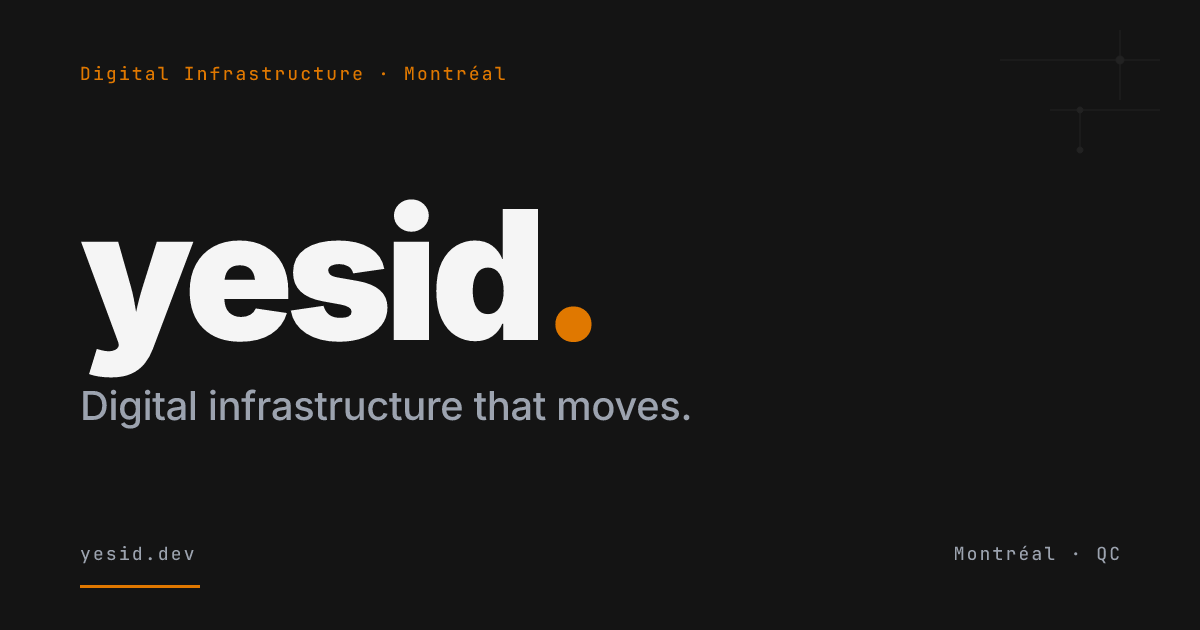
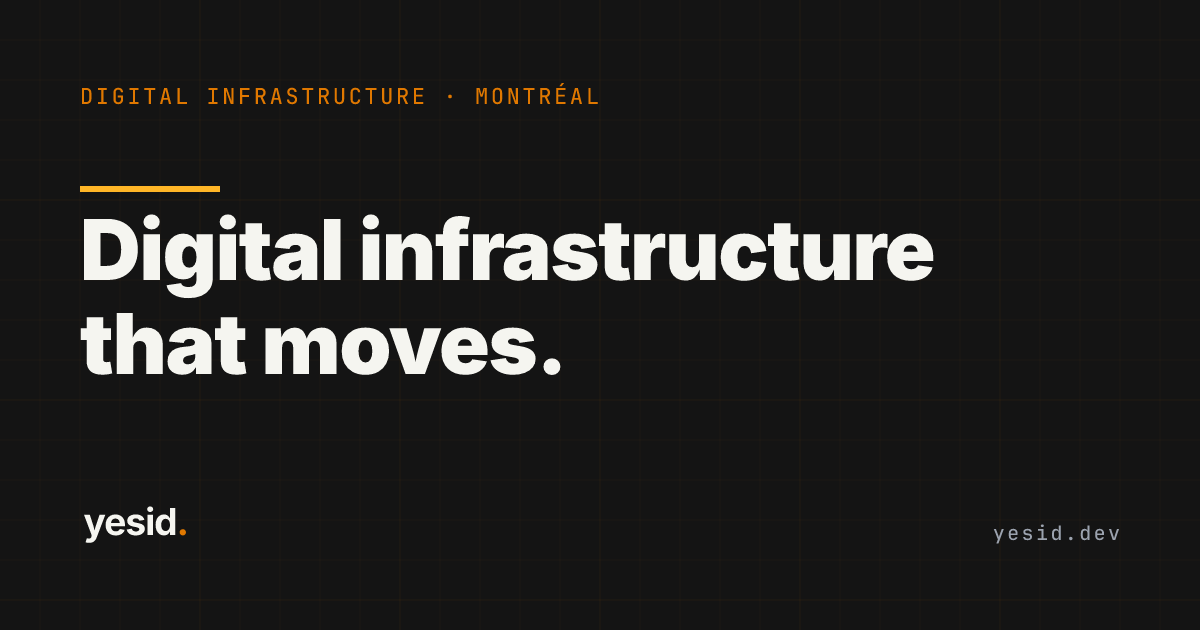
feat(og): wire the approved share-card set through the CMS pipeline (homework #5)
- generate-og-cards.ts mints the full set: 4 service cards, /services,
  /contact (yellow signage), /about (headshot), /projects (CASE STUDIES
  eyebrow + blueprint art), home defaults EN+FR, site.en/site.fr standalone
  share assets; all 1200x630, 36-79KB, wordmark paths read from the
  canonical brand SVG
- home cards replace static/og/default.{en,fr}.png (EN default at yesid.dev,
  FR at /fr, per operator)
- route cards pipelined: assets-manifest og/ entries, migrate:assets upload
  to dev, prod mirror with forced-identical UUIDs, route_seo.og_image set on
  both envs, content modules + fixtures regenerated (route-seo, media-assets)
- servicesIdSeoFactory wires /og/services/<id>.png for the four station
  services with a known-card guard + tests locking set to committed files
- media-variants skips og/ (share cards never render via srcset); id-map and
  manifest tests extended for the og/ namespace

diff --git a/apps/web/src/lib/adapters/route-seo-factories.test.ts b/apps/web/src/lib/adapters/route-seo-factories.test.ts
@@ -1,7 +1,11 @@
 import { afterEach, describe, expect, it, vi } from 'vitest';
+import { existsSync } from 'node:fs';
+import { join } from 'node:path';
+import { cwd } from 'node:process';
 import type { ContentAdapter } from './types';
-import { blogSlugSeoFactory } from './route-seo-factories';
-import type { BlogPost, SiteMeta, SiteSeoDefaults } from '$lib/types';
+import { blogSlugSeoFactory, servicesIdSeoFactory } from './route-seo-factories';
+import { serviceFactory } from '../../tests/factories';
+import type { BlogPost, Service, SiteMeta, SiteSeoDefaults } from '$lib/types';
 
 // Mutable mock state so a single test can exercise the production behaviour
 // where asset() resolves to a RELATIVE mirrored path instead of an absolute URL.
@@ -149,5 +153,48 @@ describe('blogSlugSeoFactory', () => {
 		expect(seo.ogImage?.url).toBe(
 			'https://yesid.dev/images/work/22222222-2222-4222-8222-222222222222.png',
 		);
+	});
+});
+
+describe('servicesIdSeoFactory', () => {
+	const CARD_IDS = [
+		'database-engineering',
+		'data-pipeline',
+		'analytics-reporting',
+		'web-development',
+	] as const;
+
+	function argsFor(service: Service) {
+		return {
+			params: { id: service.id },
+			locale: 'en' as const,
+			ctx: undefined,
+			adapter: { services: { byId: async () => service } } as unknown as ContentAdapter,
+			siteMeta,
+			siteSeoDefaults,
+		};
+	}
+
+	it('wires the committed share card for each of the four station services', async () => {
+		for (const id of CARD_IDS) {
+			const service = serviceFactory.build({ id } as Partial<Service>);
+			const seo = await servicesIdSeoFactory(argsFor(service));
+			expect(seo.ogImage?.url).toBe(`/og/services/${id}.png`);
+			expect(seo.ogImage?.width).toBe(1200);
+			expect(seo.ogImage?.height).toBe(630);
+			expect(seo.ogImage?.alt?.en).toContain('yesid.dev');
+		}
+	});
+
+	it('every id in the card set has its PNG committed under static/og/services', () => {
+		for (const id of CARD_IDS) {
+			expect(existsSync(join(cwd(), `static/og/services/${id}.png`)), id).toBe(true);
+		}
+	});
+
+	it('services without a card fall through to the locale default (no ogImage)', async () => {
+		const service = serviceFactory.build({ id: 'internal-tooling' } as Partial<Service>);
+		const seo = await servicesIdSeoFactory(argsFor(service));
+		expect(seo.ogImage).toBeUndefined();
 	});
 });

diff --git a/apps/web/src/lib/adapters/route-seo-factories.ts b/apps/web/src/lib/adapters/route-seo-factories.ts
@@ -76,13 +76,25 @@ function titleBodyForSeo(primary: string | undefined, fallback: string, brand: s
 	return (candidates[0] ?? fallback).slice(0, maxBodyLength).trimEnd();
 }
 
+/**
+ * Services with a committed share card at static/og/services/<id>.png (minted
+ * by scripts/generate-og-cards.ts). Both locales share one card per service;
+ * ids outside this set (archived services) fall through to the default card.
+ */
+const SERVICE_OG_CARD_IDS: ReadonlySet<string> = new Set([
+	'database-engineering',
+	'data-pipeline',
+	'analytics-reporting',
+	'web-development',
+]);
+
 /** /services/[id] — pulls service from collection adapter; brand suffix from siteMeta. */
 export async function servicesIdSeoFactory(args: FactoryArgs): Promise<PageSeo> {
 	const { params, locale, ctx, adapter, siteMeta, siteSeoDefaults } = args;
 	const service = await adapter.services.byId(params.id, ctx);
 	if (!service) throw new Error(`Unknown service id: ${params.id}`);
 	const canonicalUrl = canonicalFor(`/services/${service.id}`, locale);
-	return {
+	const seo: PageSeo = {
 		title: appendBrandPerLocale(service.title, siteMeta.name),
 		description: fitDescriptionForSeo(service.description, siteSeoDefaults.defaultDescription),
 		canonical: canonicalUrl,
@@ -100,6 +112,21 @@ export async function servicesIdSeoFactory(args: FactoryArgs): Promise<PageSeo> 
 			),
 		],
 	};
+
+	if (SERVICE_OG_CARD_IDS.has(service.id)) {
+		seo.ogImage = {
+			url: `/og/services/${service.id}.png`,
+			alt: {
+				en: `${service.title.en} | yesid.dev`,
+				...(service.title.fr && { fr: `${service.title.fr} | yesid.dev` }),
+				...(service.title.es && { es: `${service.title.es} | yesid.dev` }),
+			},
+			width: 1200,
+			height: 630,
+		};
+	}
+
+	return seo;
 }
 
 /** /projects/[slug] — pulls project from collection adapter; brand suffix from siteMeta. */

diff --git a/apps/web/scripts/generate-og-cards.ts b/apps/web/scripts/generate-og-cards.ts
@@ -230,7 +230,7 @@ async function buildCards(): Promise<Record<string, string>> {
 
 	cards['routes/projects.png'] = frame(
 		blueprintArt(590, 130, 0.62, 0.3),
-		eyebrow('PROJECTS'),
+		eyebrow('CASE STUDIES'),
 		overline(),
 		titleBlock(['Projects'], 92, 290),
 		subtitleBlock(['Projects, pipelines, and', 'systems I have built.'], 366),
@@ -251,13 +251,21 @@ async function buildCards(): Promise<Record<string, string>> {
 		footer('yesid.dev'),
 	);
 
-	cards['site.png'] = frame(
-		eyebrow('DIGITAL INFRASTRUCTURE · MONTRÉAL'),
-		overline(200),
-		wordmark(MARGIN, 240, 3.4),
-		`<text x="${MARGIN}" y="500" font-family="Inter" font-weight="500" font-size="40" fill="${MUTED}">Digital infrastructure that moves.</text>`,
-		`<text x="${WIDTH - MARGIN}" y="540" font-family="JetBrains Mono" font-weight="500" font-size="20" letter-spacing="2.4" fill="${MUTED}" text-anchor="end">MONTRÉAL · QC</text>`,
-	);
+	// General site cards, EN + FR (standalone share assets, wired to no route:
+	// yesid.dev is EN by default, /fr is French, so both languages ship).
+	const SITE_LOCALES = [
+		{ file: 'site.en.png', eyebrow: 'DIGITAL INFRASTRUCTURE · MONTRÉAL', tagline: 'Digital infrastructure that moves.' },
+		{ file: 'site.fr.png', eyebrow: 'INFRASTRUCTURE NUMÉRIQUE · MONTRÉAL', tagline: 'Une infrastructure numérique qui bouge.' },
+	];
+	for (const s of SITE_LOCALES) {
+		cards[s.file] = frame(
+			eyebrow(s.eyebrow),
+			overline(200),
+			wordmark(MARGIN, 240, 3.4),
+			`<text x="${MARGIN}" y="500" font-family="Inter" font-weight="500" font-size="40" fill="${MUTED}">${escapeXml(s.tagline)}</text>`,
+			`<text x="${WIDTH - MARGIN}" y="540" font-family="JetBrains Mono" font-weight="500" font-size="20" letter-spacing="2.4" fill="${MUTED}" text-anchor="end">MONTRÉAL · QC</text>`,
+		);
+	}
 
 	return cards;
 }

diff --git a/apps/cms/tests/assets-manifest.test.ts b/apps/cms/tests/assets-manifest.test.ts
@@ -81,14 +81,18 @@ describe('fixtures/assets-manifest.json', () => {
 		expect(m.sourceRoot).toBe('apps/web/static');
 	});
 
-	it('declares exactly 22 assets after language flag SVG additions', () => {
+	it('declares exactly 26 assets after the og route-card additions', () => {
 		const m = loadManifest();
-		expect(m.assets.length).toBe(22);
+		expect(m.assets.length).toBe(26);
 		expect(m.assets.map((asset) => asset.legacyPath)).toEqual(
 			expect.arrayContaining([
 				'images/about/languages/quebec.svg',
 				'images/about/languages/canada.svg',
 				'images/about/languages/colombia.svg',
+				'og/routes/services.png',
+				'og/routes/contact.png',
+				'og/routes/about.png',
+				'og/routes/projects.png',
 			]),
 		);
 	});
@@ -99,10 +103,12 @@ describe('fixtures/assets-manifest.json', () => {
 		expect(Object.keys(m.folders).sort()).toEqual(expected);
 	});
 
-	it('every legacyPath starts with "images/" (full-path-from-static convention)', () => {
+	it('every legacyPath starts with "images/" or "og/" (full-path-from-static convention)', () => {
 		const m = loadManifest();
 		for (const entry of m.assets) {
-			expect(entry.legacyPath.startsWith('images/')).toBe(true);
+			expect(entry.legacyPath.startsWith('images/') || entry.legacyPath.startsWith('og/')).toBe(
+				true,
+			);
 		}
 	});
 });

diff --git a/apps/cms/tests/seed-route-seo-dry-run.test.ts b/apps/cms/tests/seed-route-seo-dry-run.test.ts
@@ -99,7 +99,8 @@ describe('seed-route-seo pure helpers', () => {
 		it('preserves path, og_image, status, sort', () => {
 			const row = toRouteSeoRow(about);
 			expect(row.path).toBe('/about');
-			expect(row.og_image).toBeNull();
+			// brand-svg-og-cards: /about carries its share-card file UUID.
+			expect(row.og_image).toBe('48bb90b1-0934-4cc9-a935-bc5ab719a71d');
 			expect(row.status).toBe('published');
 			expect(row.sort).toBe(2);
 		});
@@ -118,10 +119,15 @@ describe('seed-route-seo pure helpers', () => {
 			expect(row.translations[1]?.title).toBe('Blog');
 		});
 
-		it('handles og_image=null correctly', () => {
+		it('og_image is a file UUID or null on every row', () => {
+			const uuidRe = /^[0-9a-f]{8}-[0-9a-f]{4}-[0-9a-f]{4}-[0-9a-f]{4}-[0-9a-f]{12}$/;
 			for (const f of fixture) {
-				expect(toRouteSeoRow(f).og_image).toBeNull();
+				const og = toRouteSeoRow(f).og_image;
+				if (og !== null) expect(og).toMatch(uuidRe);
 			}
+			// The four card-wired routes carry UUIDs; the rest stay null.
+			const withCard = fixture.filter((f) => toRouteSeoRow(f).og_image !== null).map((f) => f.path);
+			expect(withCard.sort()).toEqual(['/about', '/contact', '/projects', '/services']);
 		});
 	});
 

diff --git a/apps/cms/tests/assets-id-map.test.ts b/apps/cms/tests/assets-id-map.test.ts
@@ -7,10 +7,12 @@ import { z } from 'zod';
  * Schema for fixtures/assets-id-map.json — emitted by migrate-assets.ts and
  * consumed by 18e-18i (and packages/shared via re-export). Slice 18l added the
  * `brand/` namespace for Directus admin chrome assets (icon + wordmark SVGs
- * uploaded by seed-brand-assets.ts and referenced from settings.json).
+ * uploaded by seed-brand-assets.ts and referenced from settings.json); the
+ * brand-svg-og-cards slice added `og/` for route share cards wired through
+ * route_seo.og_image.
  */
 const AssetsIdMapSchema = z.record(
-	z.string().regex(/^(images|brand)\//),
+	z.string().regex(/^(images|brand|og)\//),
 	z.string().regex(/^[0-9a-f]{8}-[0-9a-f]{4}-[0-9a-f]{4}-[0-9a-f]{4}-[0-9a-f]{12}$/),
 );
 
@@ -38,9 +40,9 @@ describe('fixtures/assets-id-map.json', () => {
 		expect(() => AssetsIdMapSchema.parse(loadIdMap())).not.toThrow();
 	});
 
-	it('contains exactly 24 entries, including brand assets and language flags', () => {
+	it('contains exactly 28 entries, including brand assets, language flags and og route cards', () => {
 		const m = loadIdMap();
-		expect(Object.keys(m).length).toBe(24);
+		expect(Object.keys(m).length).toBe(28);
 	});
 
 	it('keys are sorted alphabetically (diff-friendly)', () => {

diff --git a/apps/web/src/lib/content/route-seo.ts b/apps/web/src/lib/content/route-seo.ts
@@ -28,7 +28,7 @@ export const routeSeoOverrides: readonly RouteSeoOverride[] = [
 			en: 'Montreal-based digital infrastructure consultant. Background in SQL, data warehousing, and real-time analytics. Available for freelance and consulting work.',
 			fr: 'Consultant en infrastructure numérique basé à Montréal. Expérience en SQL, entrepôts de données et analyses temps réel, disponible pour mandats pigistes.',
 		},
-		ogImage: null,
+		ogImage: '48bb90b1-0934-4cc9-a935-bc5ab719a71d',
 		path: '/about',
 		title: {
 			en: 'Yesid O., Digital Infrastructure Engineer in Montreal',
@@ -40,7 +40,7 @@ export const routeSeoOverrides: readonly RouteSeoOverride[] = [
 			en: 'Get in touch for freelance database, pipeline, dashboard, or website work. PostgreSQL, dbt, Power BI, SvelteKit. Based in Montreal; available remotely.',
 			fr: 'Contactez-moi pour du travail pigiste: bases de données, pipelines, tableaux de bord, sites web. Basé à Montréal et disponible à distance.',
 		},
-		ogImage: null,
+		ogImage: 'a781a5a4-1abc-4be4-a75e-ee6000419a53',
 		path: '/contact',
 		title: {
 			en: 'Hire a Digital Infrastructure Freelancer in Montreal',
@@ -52,7 +52,7 @@ export const routeSeoOverrides: readonly RouteSeoOverride[] = [
 			en: 'Digital infrastructure services: SQL and PostgreSQL consulting, dbt pipelines, Power BI analytics, Python ETL, and real-time data platforms for growing teams.',
 			fr: 'Services d\'infrastructure numérique: conseil SQL et PostgreSQL, pipelines dbt, analyses Power BI, ETL Python et plateformes de données temps réel.',
 		},
-		ogImage: null,
+		ogImage: 'dcf6e0a2-7da6-44fe-9324-4a98a4d0aaa7',
 		path: '/services',
 		title: {
 			en: 'Digital Infrastructure Services: Web, Data, Automation',
@@ -64,7 +64,7 @@ export const routeSeoOverrides: readonly RouteSeoOverride[] = [
 			en: 'Recent freelance and client work: real-time transit pipelines, analytics platforms, dashboards, ETL, and infrastructure projects for teams in Montreal and Canada.',
 			fr: 'Travaux récents pour clients et mandats pigistes: pipelines transport temps réel, plateformes analytiques, tableaux de bord, ETL et infrastructure numérique.',
 		},
-		ogImage: null,
+		ogImage: '864b5ad1-3dac-47ea-ad96-f175cad1b515',
 		path: '/projects',
 		title: { en: 'Projects', fr: 'Projets' },
 	},

diff --git a/apps/web/src/lib/content/media-assets.ts b/apps/web/src/lib/content/media-assets.ts
@@ -15,19 +15,23 @@ export const mirroredMediaAssets: Readonly<Record<string, string>> = {
 	'2bea44d9-3beb-4df7-8469-9bae7b720a15': '/images/about/polaroid-1.webp',
 	'2e07b34a-70d2-4bb3-861e-3c4873561c3e': '/images/about/polaroid-friends.webp',
 	'44836696-854b-4e83-9392-4307ebd4175c': '/images/about/interests/transit.webp',
+	'48bb90b1-0934-4cc9-a935-bc5ab719a71d': '/og/routes/about.png',
 	'5f512546-d577-4e24-8a4e-e5518db6374e': '/images/about/languages/quebec.svg',
 	'6048a712-de42-4cca-ab51-6f92d64685c2': '/images/work/yesid-dev-home.png',
 	'60be60ac-b763-490a-b260-e4d006424ab6': '/images/about/polaroid-family.webp',
 	'66f6ddc8-c3f2-4bd7-97a5-978940757b77': '/images/about/headshot.webp',
 	'74b62762-8d8d-4301-8635-f236bc23f739': '/images/montreal-metro.svg',
+	'864b5ad1-3dac-47ea-ad96-f175cad1b515': '/og/routes/projects.png',
 	'8b57ccd1-bed1-46ae-bb24-a887714a8bcc': '/images/work/yesid-dev.png',
 	'99a55828-2c45-4142-a6eb-55d4168d78c4': '/images/about/polaroid-yesid.webp',
 	'9af53f0b-aeb9-4d3f-94a6-1ba3476a4f12': '/images/work/yesid-dev-mobile-light.png',
 	'9cb7691d-3fde-4cec-89af-ba819f8d2a08': '/images/work/yesid-dev-case-study.png',
+	'a781a5a4-1abc-4be4-a75e-ee6000419a53': '/og/routes/contact.png',
 	'c2bb6564-62ab-46c4-962b-ab2c756fde9e': '/images/work/yesid-dev-home-light.png',
 	'c2fad757-ecba-457c-aff7-47d3cc504081': '/images/work/yesid-dev-mobile.png',
 	'c5eb69ac-f2dd-4fa6-82c6-12d8cefc22a4': '/images/about/interests/anime.webp',
 	'd8b854d8-aa0b-4122-add5-f8dedcda6171': '/images/about/interests/space.webp',
+	'dcf6e0a2-7da6-44fe-9324-4a98a4d0aaa7': '/og/routes/services.png',
 	'dd23a610-b9fc-4cd3-bfa4-4cc09af4ea84': '/images/about/languages/colombia.svg',
 	'ec2598c3-171a-4506-93f5-a583734ad2df': '/images/about/polaroid-dante.webp',
 	'f1d1046b-d08a-4eca-8347-4b7d21c68c15': '/images/about/languages/canada.svg',

diff --git a/apps/cms/scripts/lib/media-variants.ts b/apps/cms/scripts/lib/media-variants.ts
@@ -88,6 +88,9 @@ export async function buildMediaVariants(
 
 	const rasterAssets = manifest.assets
 		.filter((a) => isRasterAsset(a.legacyPath))
+		// og/ share cards are fixed 1200x630 assets consumed via og:image URLs,
+		// never through <img srcset> — no responsive variants for them.
+		.filter((a) => !a.legacyPath.startsWith('og/'))
 		.sort((a, b) => a.legacyPath.localeCompare(b.legacyPath));
 
 	for (const { legacyPath } of rasterAssets) {

diff --git a/apps/web/ASSETS.md b/apps/web/ASSETS.md
@@ -24,7 +24,7 @@ pipeline (`apps/cms/README.md` § Asset migration).
 | `static/svg/services/*.svg` | 6 service line icons; filenames are CMS data (`services.svg`) | Dual: `?raw` glob (`src/lib/utils/service-svg.ts`, SSR) + client fetch/img `/svg/services/...` |
 | `static/svg/graffiti/*.svg` | Closer graffiti: `the-end.svg` (generated by `scripts/compose-graffiti.py`) + `prop-{sign,helmet,barricade,balise}.svg` | Runtime fetch, template-string URLs (`CloserGraffiti`/`CloserProps`) |
 | `static/images/**` | Raster + CMS-mirrored assets (metro map, about art, work shots) | Static; CMS mirror via `media-assets.ts` (GENERATED) + `assets-id-map.json` |
-| `static/og/*.png` | OG share cards (1200x630, <150KB) | Static; per-route wiring via `route_seo.og_image` / seo factories |
+| `static/og/**.png` | OG share cards, 1200x630 <150KB, minted by `scripts/generate-og-cards.ts`: `default.{en,fr}` (home + locale fallback), `routes/{services,contact,about,projects}` (CMS-wired via `route_seo.og_image`, same file UUIDs on dev + prod), `services/<id>` (wired in `servicesIdSeoFactory`), `site.{en,fr}` (standalone share assets, unwired) | Static; runtime blog/project cards stay on the satori lambda |
 
 ## Rules
 